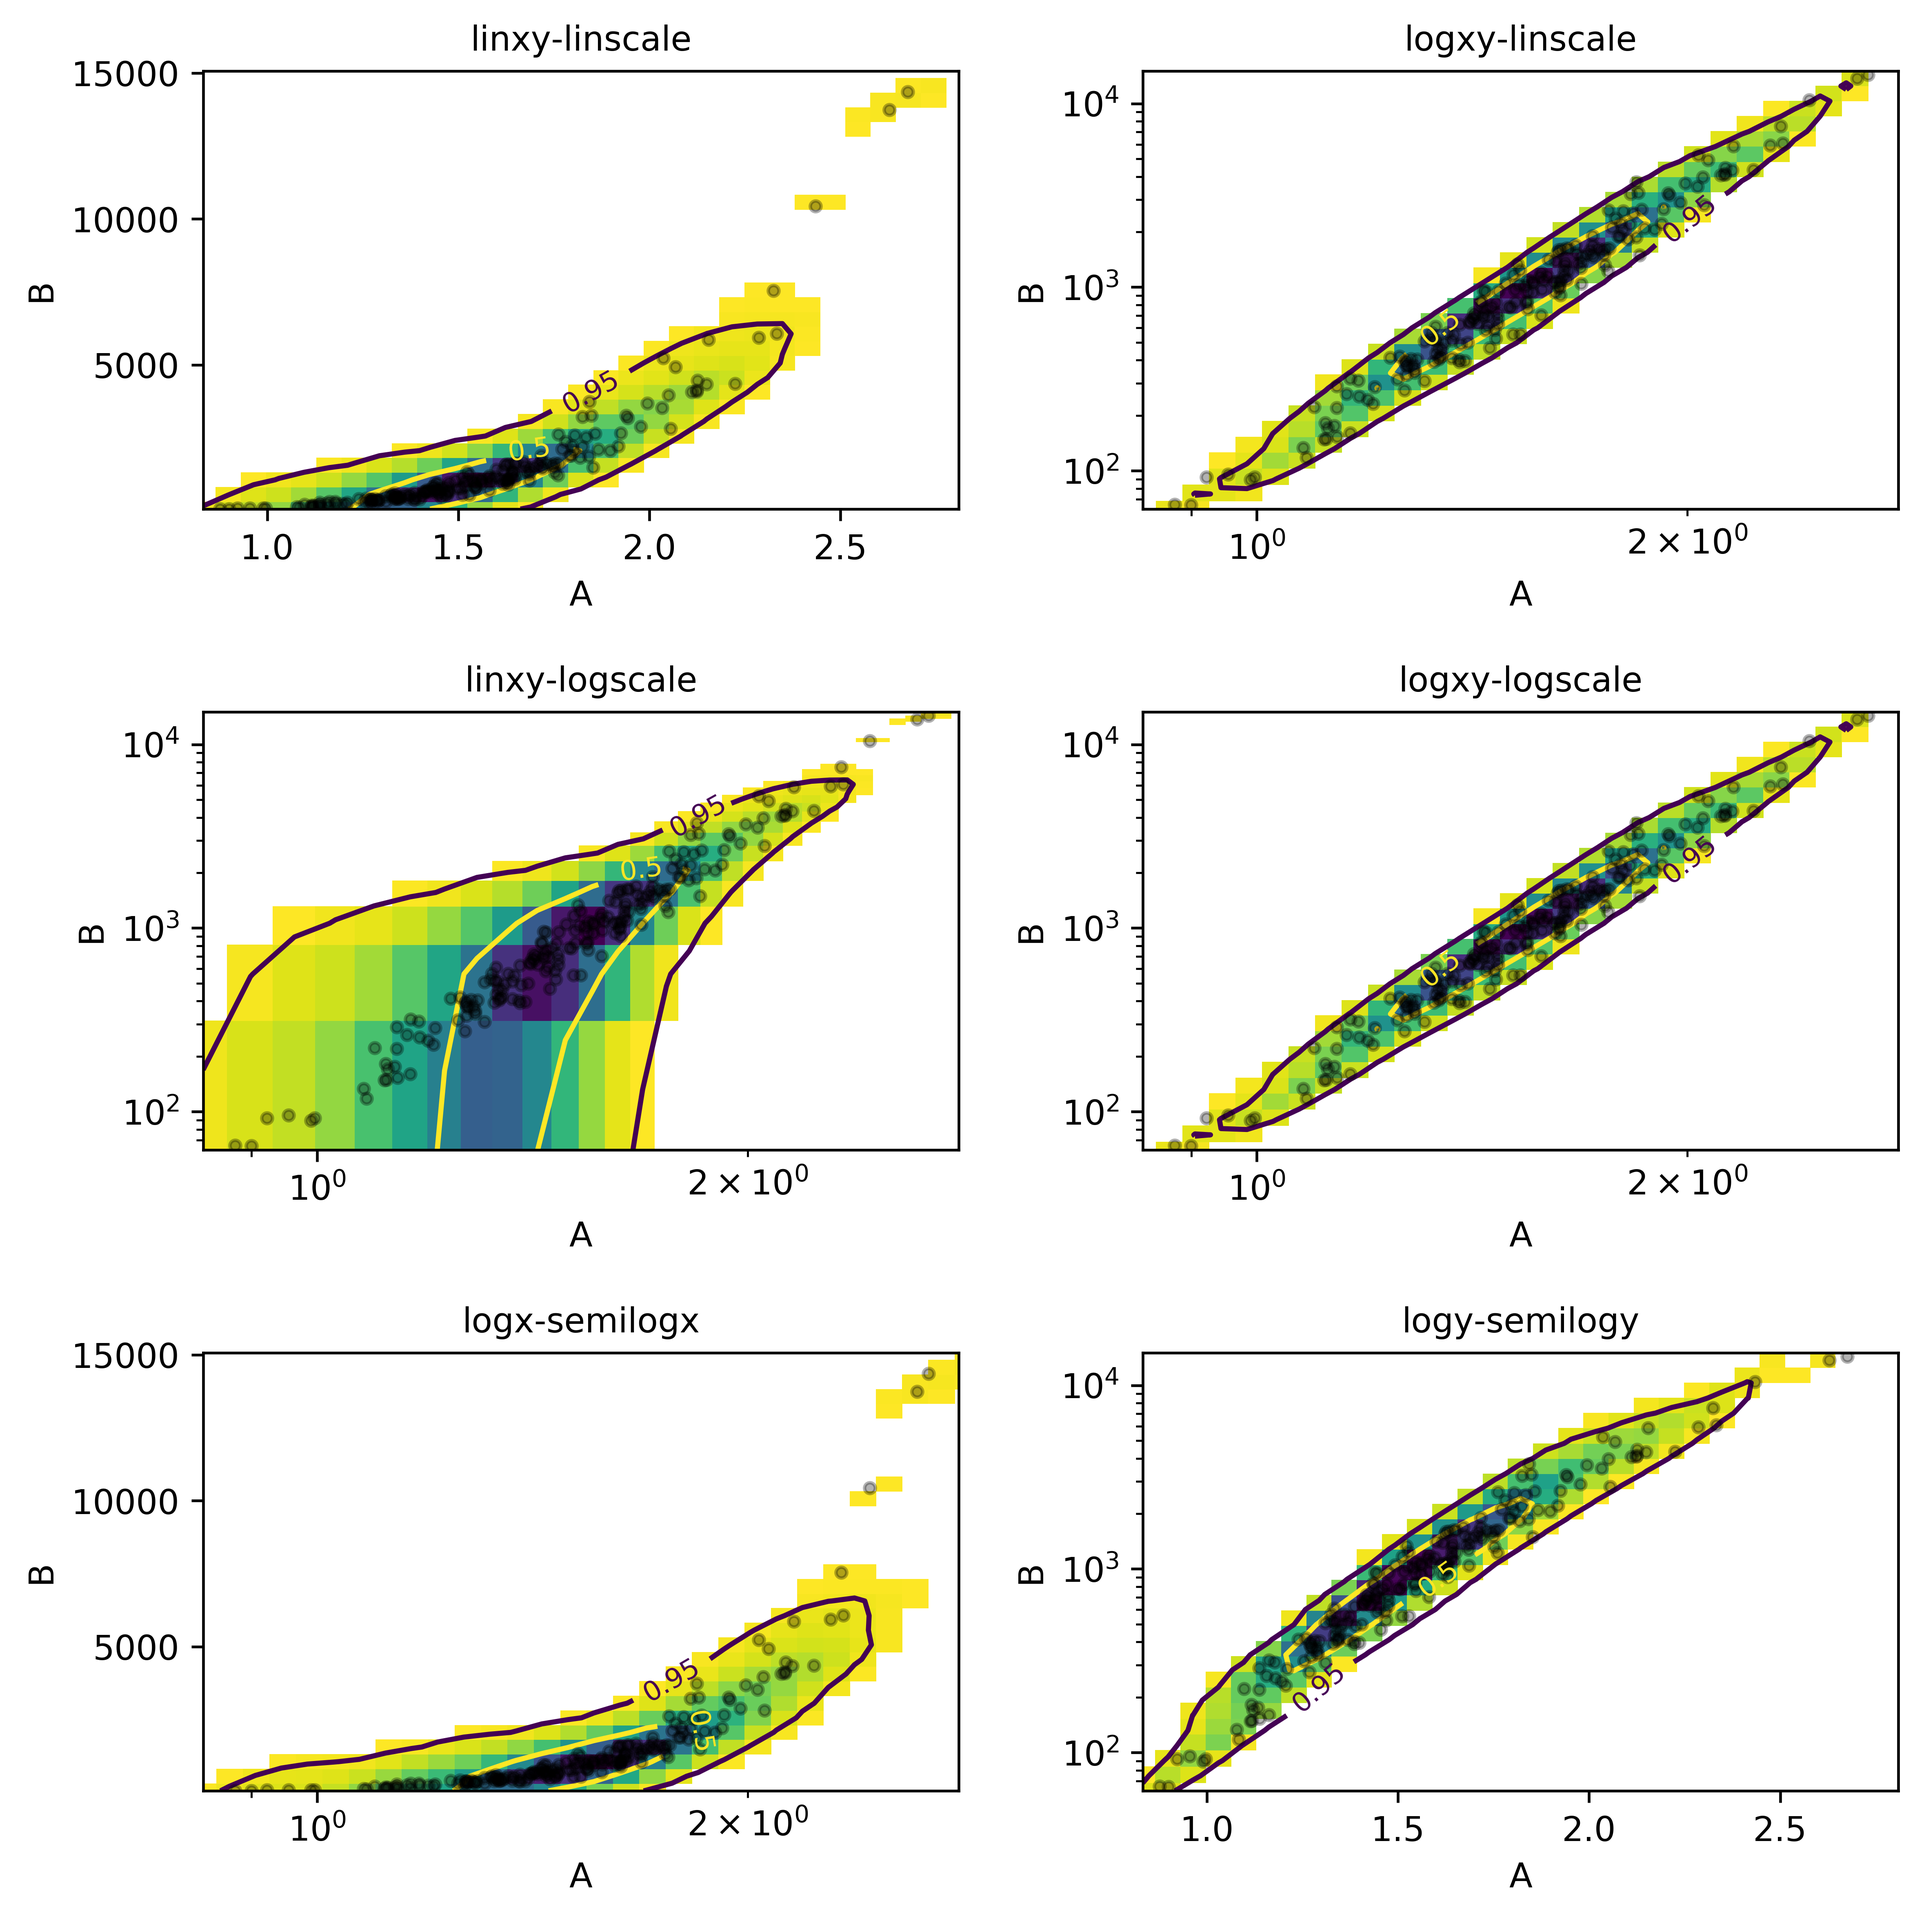
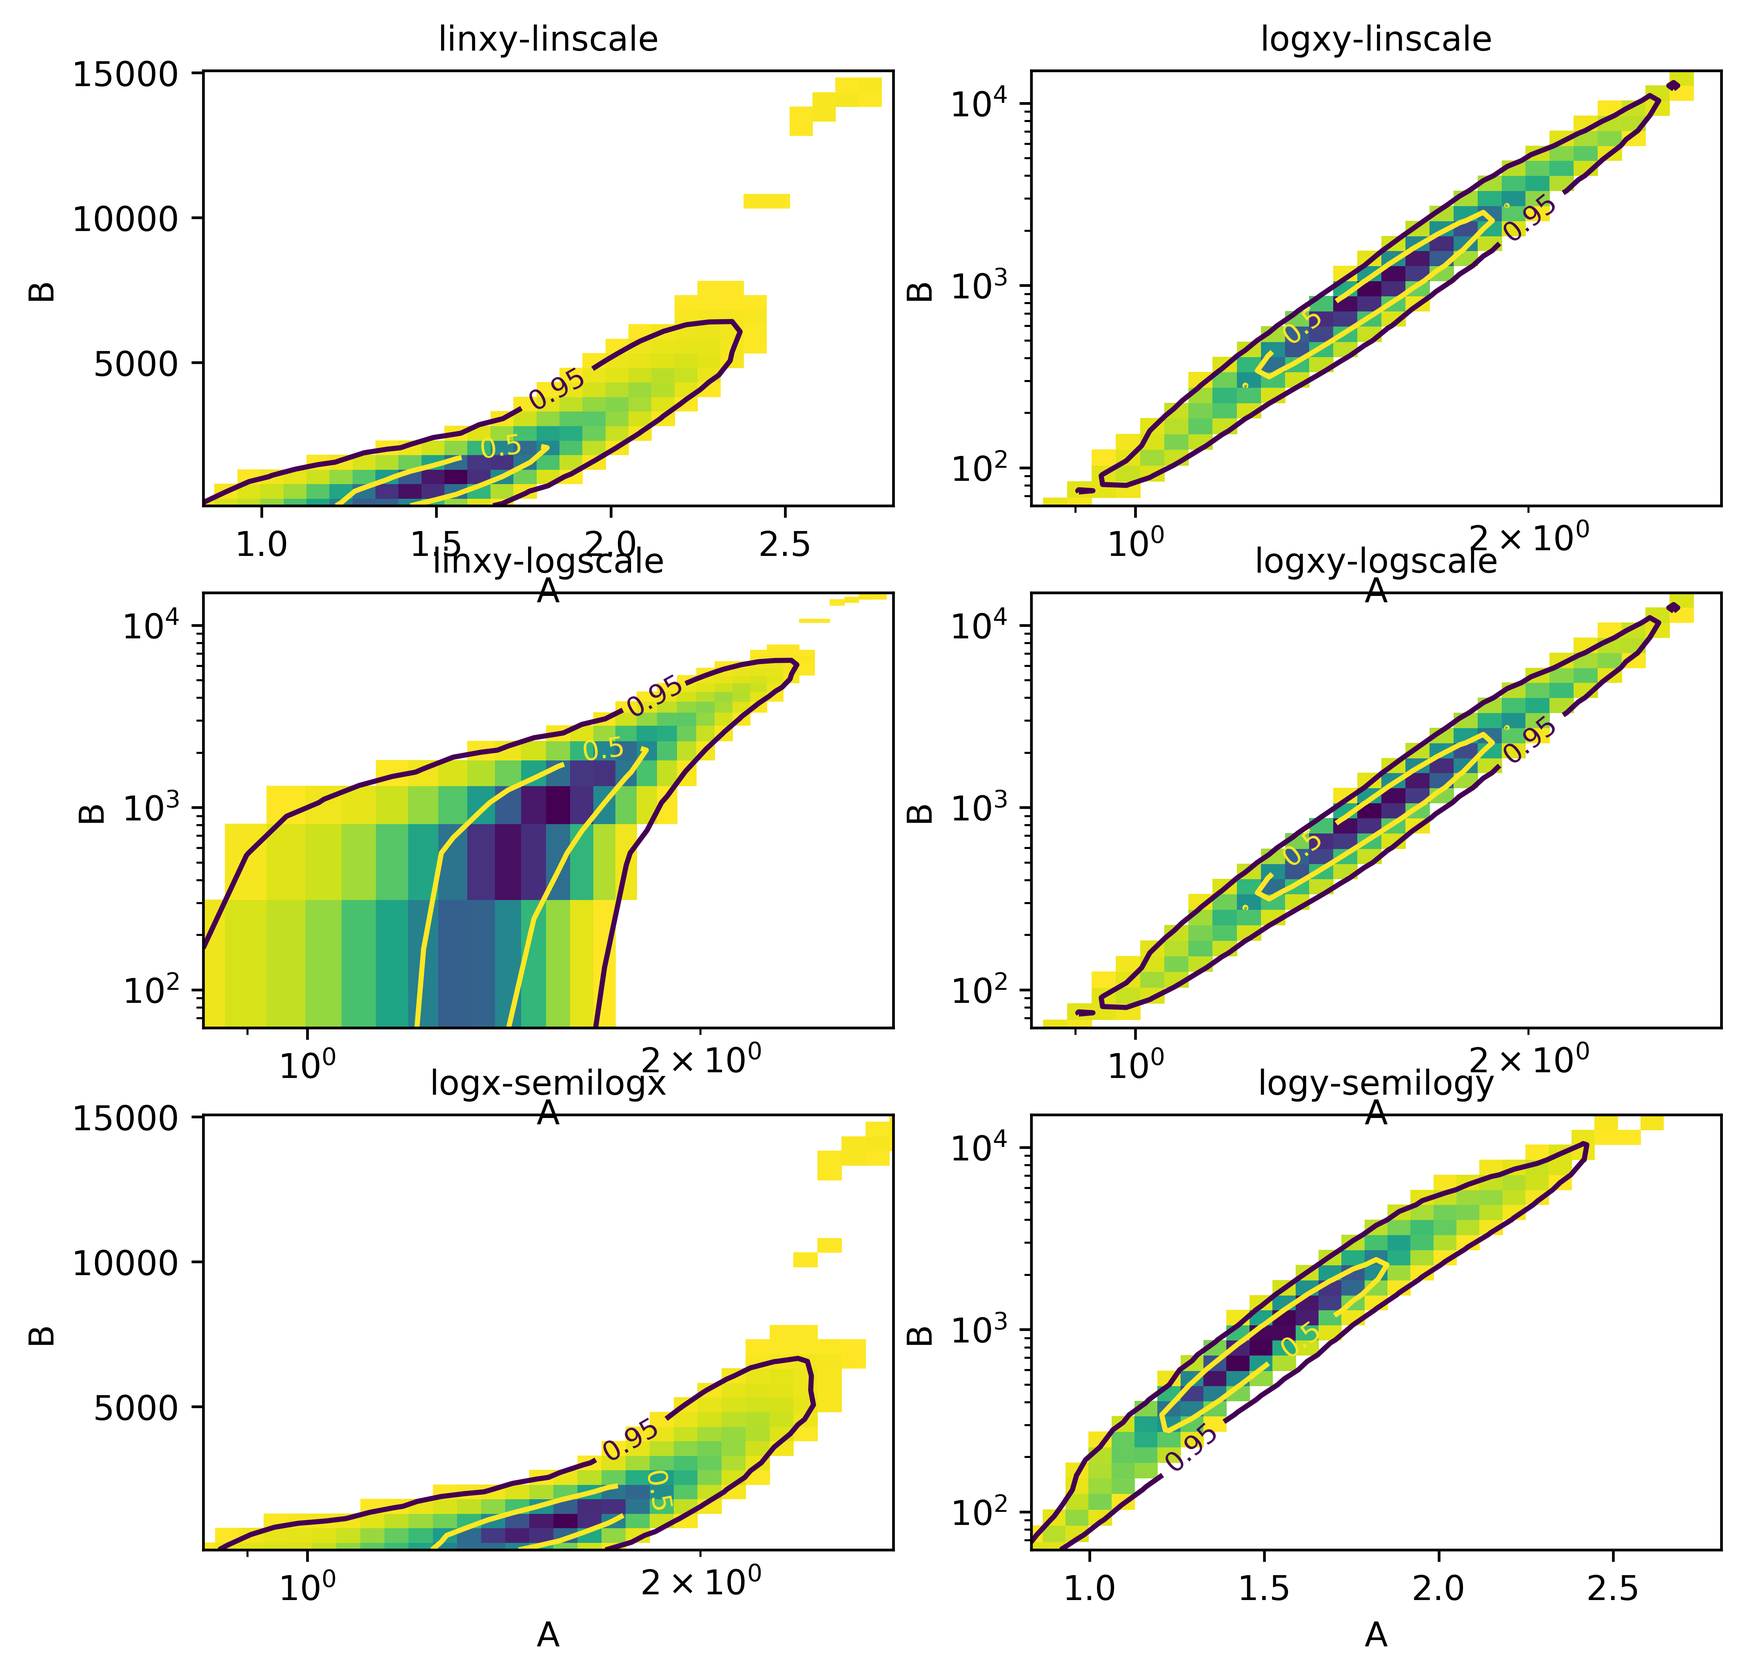
Update pyrochem interface and relevant docs

diff --git a/docs/examples/plotting/density.py b/docs/examples/plotting/density.py
@@ -3,7 +3,6 @@ import numpy as np
 import matplotlib.pyplot as plt
 from pyrolite.plot import pyroplot
 from pyrolite.plot.density import density
-from pyrolite.geochem.ind import common_oxides
 from pyrolite.comp.codata import close
 
 np.random.seed(82)
@@ -12,14 +11,14 @@ np.random.seed(82)
 oxs = ["SiO2", "CaO", "MgO", "Na2O"]
 ys = np.random.rand(1000, len(oxs))
 ys[:, 1] += 0.7
-ys[:, 2] += 1.
+ys[:, 2] += 1.0
 df = pd.DataFrame(data=close(np.exp(ys)), columns=oxs)
 # plot
 ax = density(df.loc[:, ["SiO2", "MgO"]].values)
 ax.scatter(*df.loc[:, ["SiO2", "MgO"]].values.T, s=10, alpha=0.3, c="k", zorder=2)
 # or, alternatively directly from the dataframe:
 ax = df.loc[:, ["SiO2", "MgO"]].pyroplot.density()
-ax.scatter(*df.loc[:, ["SiO2", "MgO"]].values.T, s=10, alpha=0.3, c="k", zorder=2)
+df.loc[:, ["SiO2", "MgO"]].pyroplot.scatter(ax=ax, s=10, alpha=0.3, c="k", zorder=2)
 # %% Save Figure
 from pyrolite.util.plot import save_figure
 
@@ -41,9 +40,7 @@ plt.tight_layout()
 save_figure(fig, save_at="../../source/_static", name="density_dual")
 
 # %% Percentiles -----------------------------------------------------------------------
-ax = df.loc[:, ["SiO2", "CaO"]].plot.scatter(
-    x="SiO2", y="CaO", s=10, alpha=0.3, c="k", zorder=2
-)
+ax = df.loc[:, ["SiO2", "CaO"]].pyroplot.scatter(s=10, alpha=0.3, c="k", zorder=2)
 df.loc[:, ["SiO2", "CaO"]].pyroplot.density(ax=ax, contours=[0.95, 0.66, 0.33])
 # %% Save Figure
 save_figure(ax.figure, save_at="../../source/_static", name="density_percentiles")
@@ -90,7 +87,7 @@ for a, (ls, grid, scale) in zip(ax, params):
         cmap="viridis",
         fontsize=10,
     )
-    a.scatter(*asym_df.values.T, s=10, alpha=0.3, c="k", zorder=2)
+    asym_df.pyroplot.scatter(s=10, alpha=0.3, c="k", zorder=2)
     a.set_title("{}-{}".format(grid, scale), fontsize=10)
     if scale in ["logscale", "semilogx"]:
         a.set_xscale("log")
@@ -118,7 +115,7 @@ save_figure(fig, save_at="../../source/_static", name="density_vmin")
 
 # %% Density Ternary -------------------------------------------------------------------
 fig, ax = plt.subplots(1, 3, sharex=True, sharey=True, figsize=(15, 5))
-df.loc[:, ["SiO2", "CaO", "MgO"]].pyroplot.ternary(ax=ax[0], alpha=0.05, color='k')
+df.loc[:, ["SiO2", "CaO", "MgO"]].pyroplot.ternary(ax=ax[0], alpha=0.05, color="k")
 for a, mode in zip(ax[1:], ["hist", "density"]):
     df.loc[:, ["SiO2", "CaO", "MgO"]].pyroplot.density(ax=a, mode=mode, bins=50)
     a.set_title("Mode: {}".format(mode))

diff --git a/pyrolite/geochem/__init__.py b/pyrolite/geochem/__init__.py
@@ -32,6 +32,26 @@ class pyrochem(object):
     def _validate(obj):
         pass
 
+    # pyrolite.geochem.ind functions
+
+    @property
+    def elements(self):
+        return [i for i in self._obj.columns if i in common_elements()]
+
+    @property
+    def REE(self):
+        return [i for i in self._obj.columns if i in REE()]
+
+    @property
+    def oxides(self):
+        return [i for i in self._obj.columns if i in common_oxides()]
+
+    def get_elements(self):
+        return self._obj.loc[:, self.elements]
+
+    def get_oxides(self):
+        return self._obj.loc[:, self.oxides]
+
     # pyrolite.geochem.parse functions
 
     def check_multiple_cation_inclusion(self, exclude=["LOI", "FeOT", "Fe2O3T"]):
@@ -398,3 +418,39 @@ class pyrochem(object):
         pass
         # if the normalisation requires modification to the reference composition
         # note it here in a logger.debug call
+
+    def convert_chemistry(self, to=[], logdata=False, renorm=False, molecular=False):
+        """
+        Attempts to convert a dataframe with one set of components to another.
+
+        Parameters
+        -----------
+        to : :class:`list`
+            Set of columns to try to extract from the dataframe.
+
+            Can also include a dictionary for iron speciation.
+            See :func:`pyrolite.geochem.recalculate_Fe`.
+        logdata : :class:`bool`, :code:`False`
+            Whether chemical data has been log transformed. Necessary for aggregation
+            functions.
+        renorm : :class:`bool`, :code:`False`
+            Whether to renormalise the data after transformation.
+        molecular : :class:`bool`, :code:`False`
+            Flag that data is in molecular units, rather than weight units.
+
+        Returns
+        --------
+        :class:`pandas.DataFrame`
+            Dataframe with converted chemistry.
+
+        Todo
+        ------
+            * Check for conflicts between oxides and elements
+            * Aggregator for ratios
+            * Implement generalised redox transformation.
+            * Add check for dicitonary components (e.g. Fe) in tests
+        """
+        obj = self._obj
+        return convert_chemistry(
+            obj, to=to, logdata=logdata, renorm=renorm, molecular=molecular
+        )

diff --git a/docs/examples/alphamelts/montecarlo.py b/docs/examples/alphamelts/montecarlo.py
@@ -1,9 +1,9 @@
 import numpy as np
 import pandas as pd
 from pathlib import Path
-from pyrolite.plot import pyroplot
+import pyrolite.geochem
+import pyrolite.plot
 from pyrolite.comp.codata import ilr, inverse_ilr
-
 from pyrolite.util.meta import stream_log
 import logging
 
@@ -38,12 +38,11 @@ MORB["Increment Pressure"] = 0
 # %% replicate and add noise
 from pyrolite.util.text import slugify
 from pyrolite.util.pd import accumulate
-from pyrolite.geochem.ind import common_oxides
 
 reps = 5
 df = accumulate([pd.DataFrame(MORB).T] * reps)
 df = df.reset_index().drop(columns="index")
-compositional = [i for i in df if i in common_oxides(as_set=True)]
+compositional = df.pyrochem.oxides
 df[compositional] = df[compositional].astype(float).renormalise()
 df[compositional] = blur_compositions(df[compositional])
 

diff --git a/docs/examples/lambdas/pandas_lnREE.py b/docs/examples/lambdas/pandas_lnREE.py
@@ -41,7 +41,7 @@ from pyrolite.util.plot import save_figure
 
 save_figure(ax.figure, save_at="../../source/_static", name="PandasLambdaData")
 # %% Reduce to Orthogonal Polynomials --------------------------------------------------
-ls = lambda_lnREE(df, exclude=["Ce", "Eu", "Pm"], degree=4, norm_to="Chondrite_PON")
+ls = df.pyrochem.lambda_lnREE(exclude=["Ce", "Eu", "Pm"], degree=4, norm_to="Chondrite_PON")
 # %% Plot the Results ------------------------------------------------------------------
 fig, ax = plt.subplots(1, 3, figsize=(9, 3))
 ax_labels = [chr(955) + "$_{}$".format(str(d)) for d in range(4)]

diff --git a/docs/examples/alphamelts/tables.py b/docs/examples/alphamelts/tables.py
@@ -1,5 +1,4 @@
 import matplotlib.pyplot as plt
-from pyrolite.geochem.ind import __common_oxides__
 from pyrolite.ext.alphamelts.tables import MeltsOutput
 
 # %% ---
@@ -7,7 +6,6 @@ from pyrolite.ext.alphamelts.tables import MeltsOutput
 output = MeltsOutput(folder, kelvin=False)  # tables in degrees C
 
 # this object has a number of useful attributes
-
 output.tables  # list of tables accessible from the object
 
 {"bulkcomp", "liquidcomp", "phasemass", "phasevol", "solidcomp", "system", "tracecomp"}

diff --git a/docs/examples/plotting/tern.py b/docs/examples/plotting/tern.py
@@ -3,12 +3,11 @@ import numpy as np
 import matplotlib.pyplot as plt
 from pyrolite.plot import pyroplot
 from pyrolite.plot.tern import ternary
-from pyrolite.geochem.ind import common_oxides
 
 np.random.seed(82)
 # %% Minimal Example -------------------------------------------------------------------
 # create some example data
-oxs = common_oxides()
+oxs = ['SiO2', 'MgO', 'CaO']
 ys = np.random.rand(3, len(oxs))
 ys = np.exp(ys)
 df = pd.DataFrame(data=ys, columns=oxs)

diff --git a/docs/examples/lambdas/orthogonal_polynomials.py b/docs/examples/lambdas/orthogonal_polynomials.py
@@ -48,7 +48,6 @@ else:
     subset_Y, subset_ree, subset_radii = Y, data_ree, data_radii
 
 params = OP_constants(subset_radii, degree=4)
-subset_Y.shape
 ls = lambdas(np.log(subset_Y), subset_radii, params=params, degree=4)
 continuous_radii = np.linspace(subset_radii[0], subset_radii[-1], 20)
 l_func = lambda_poly_func(ls, pxs=subset_radii, params=params)
